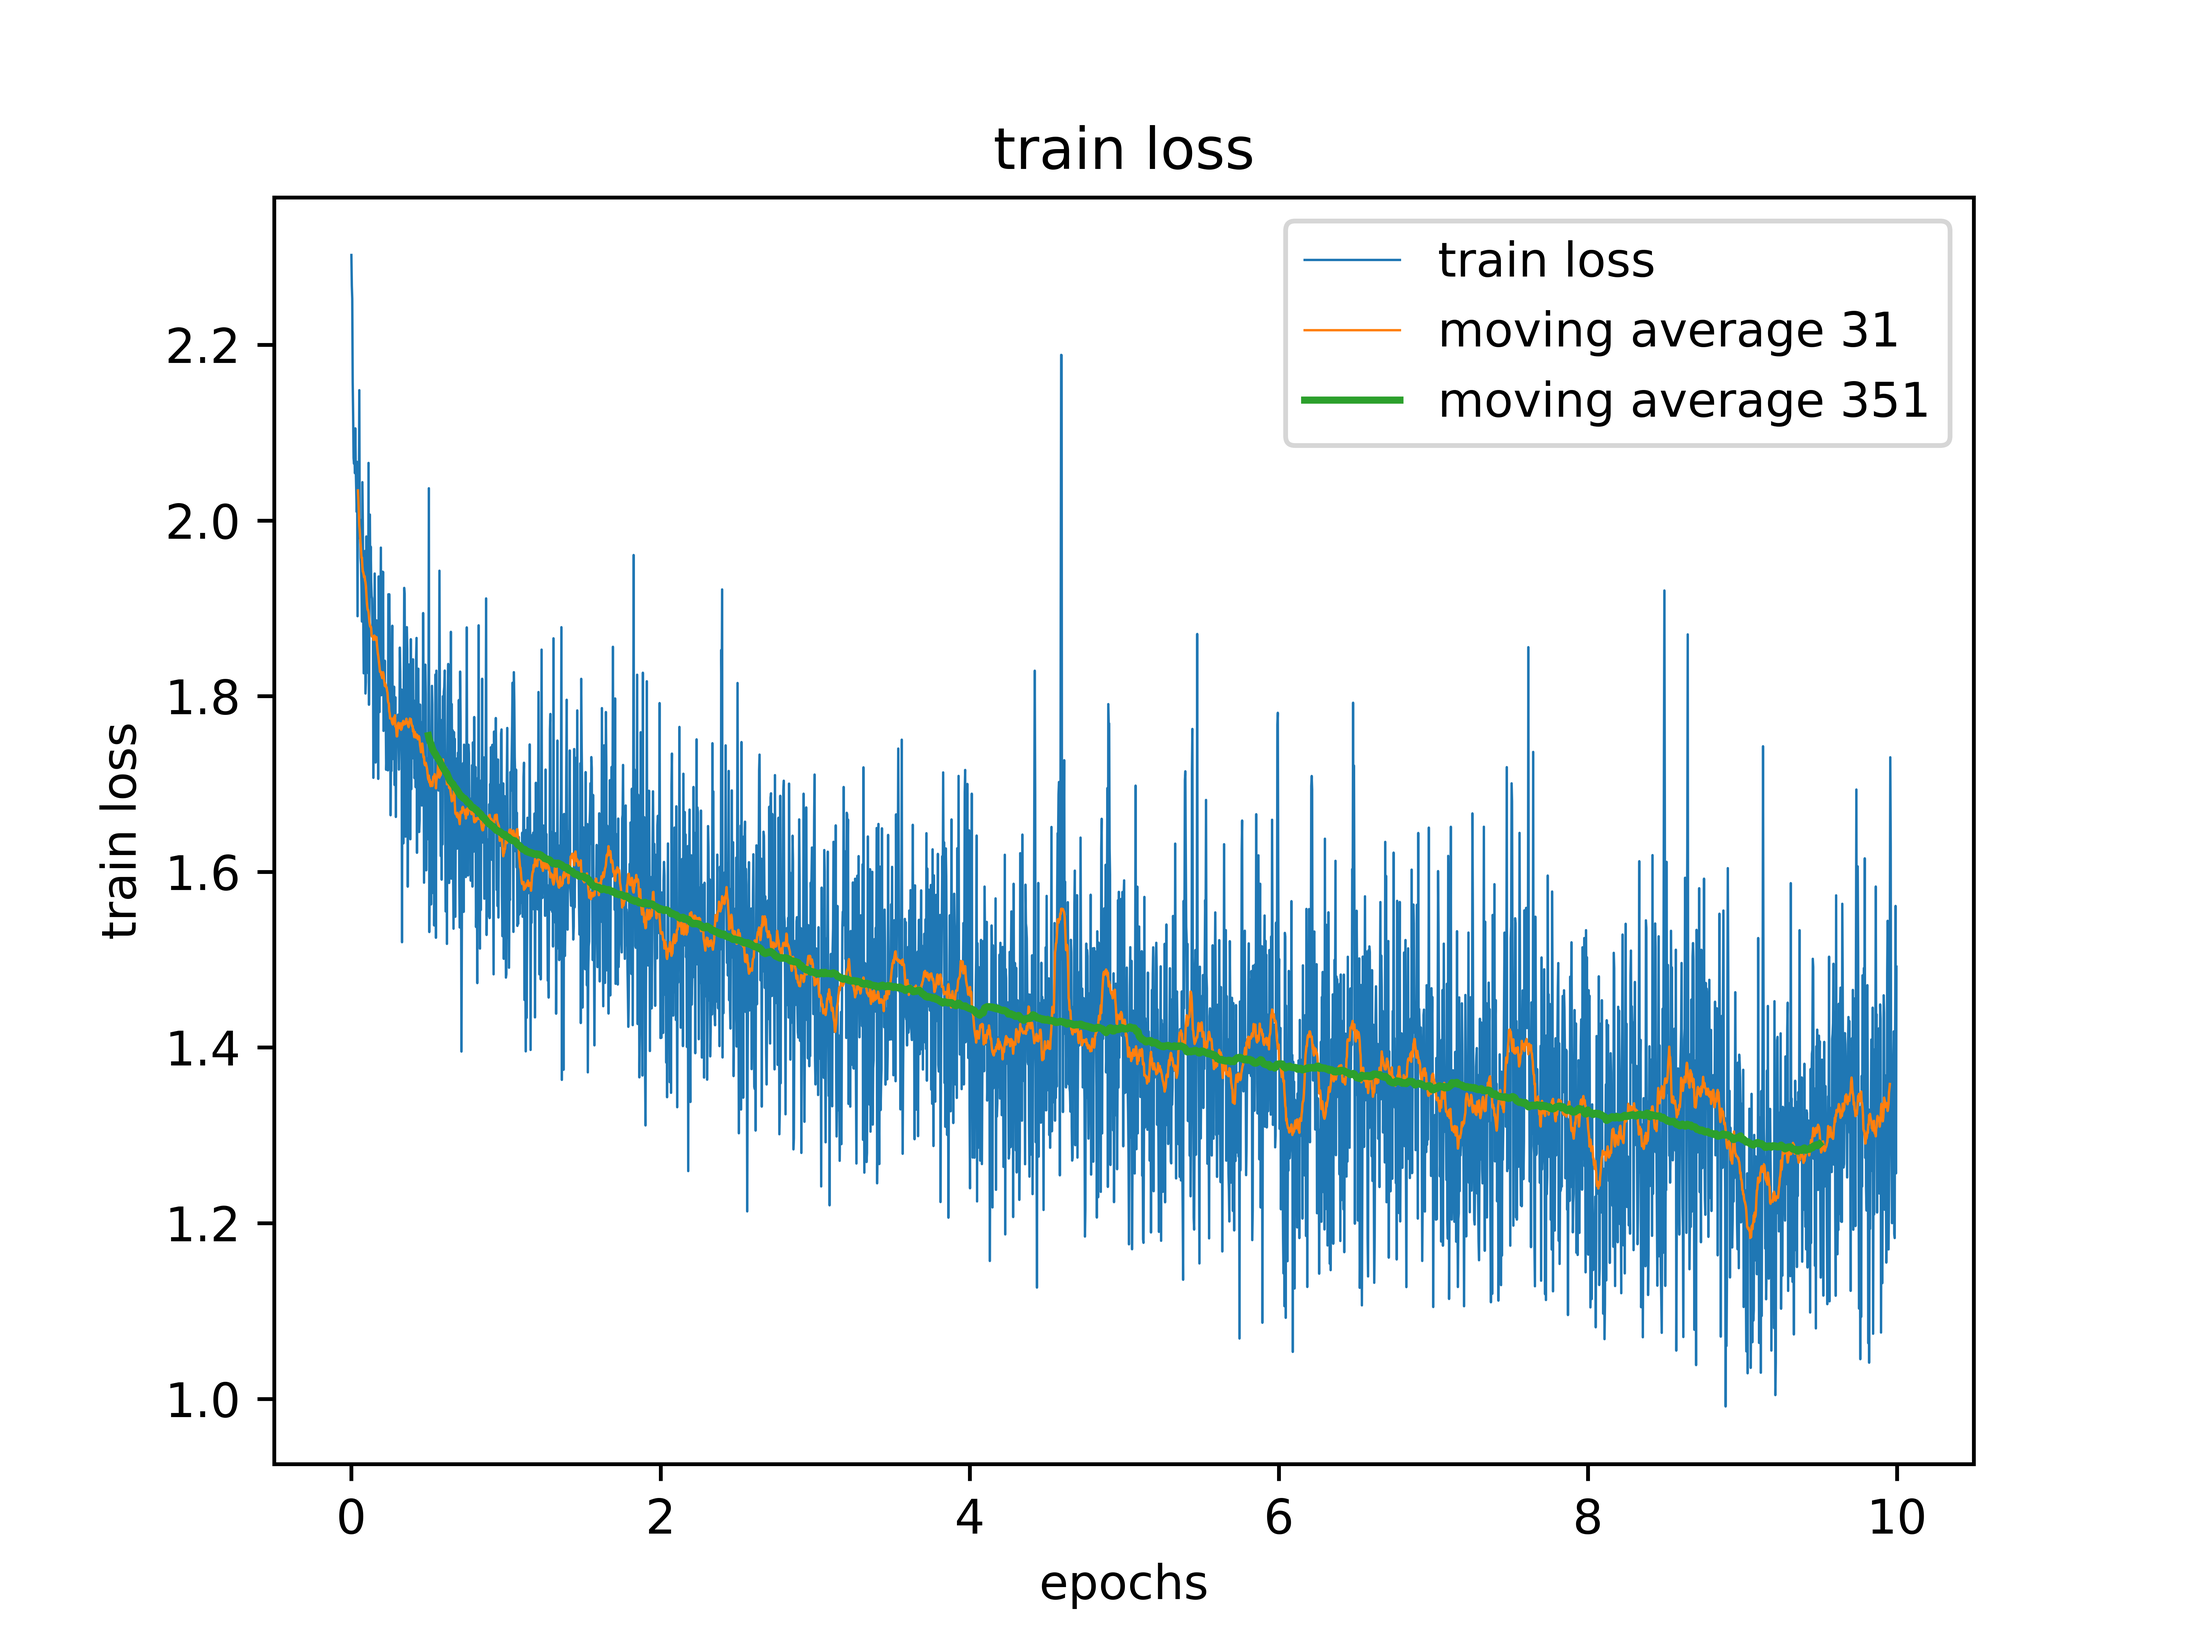
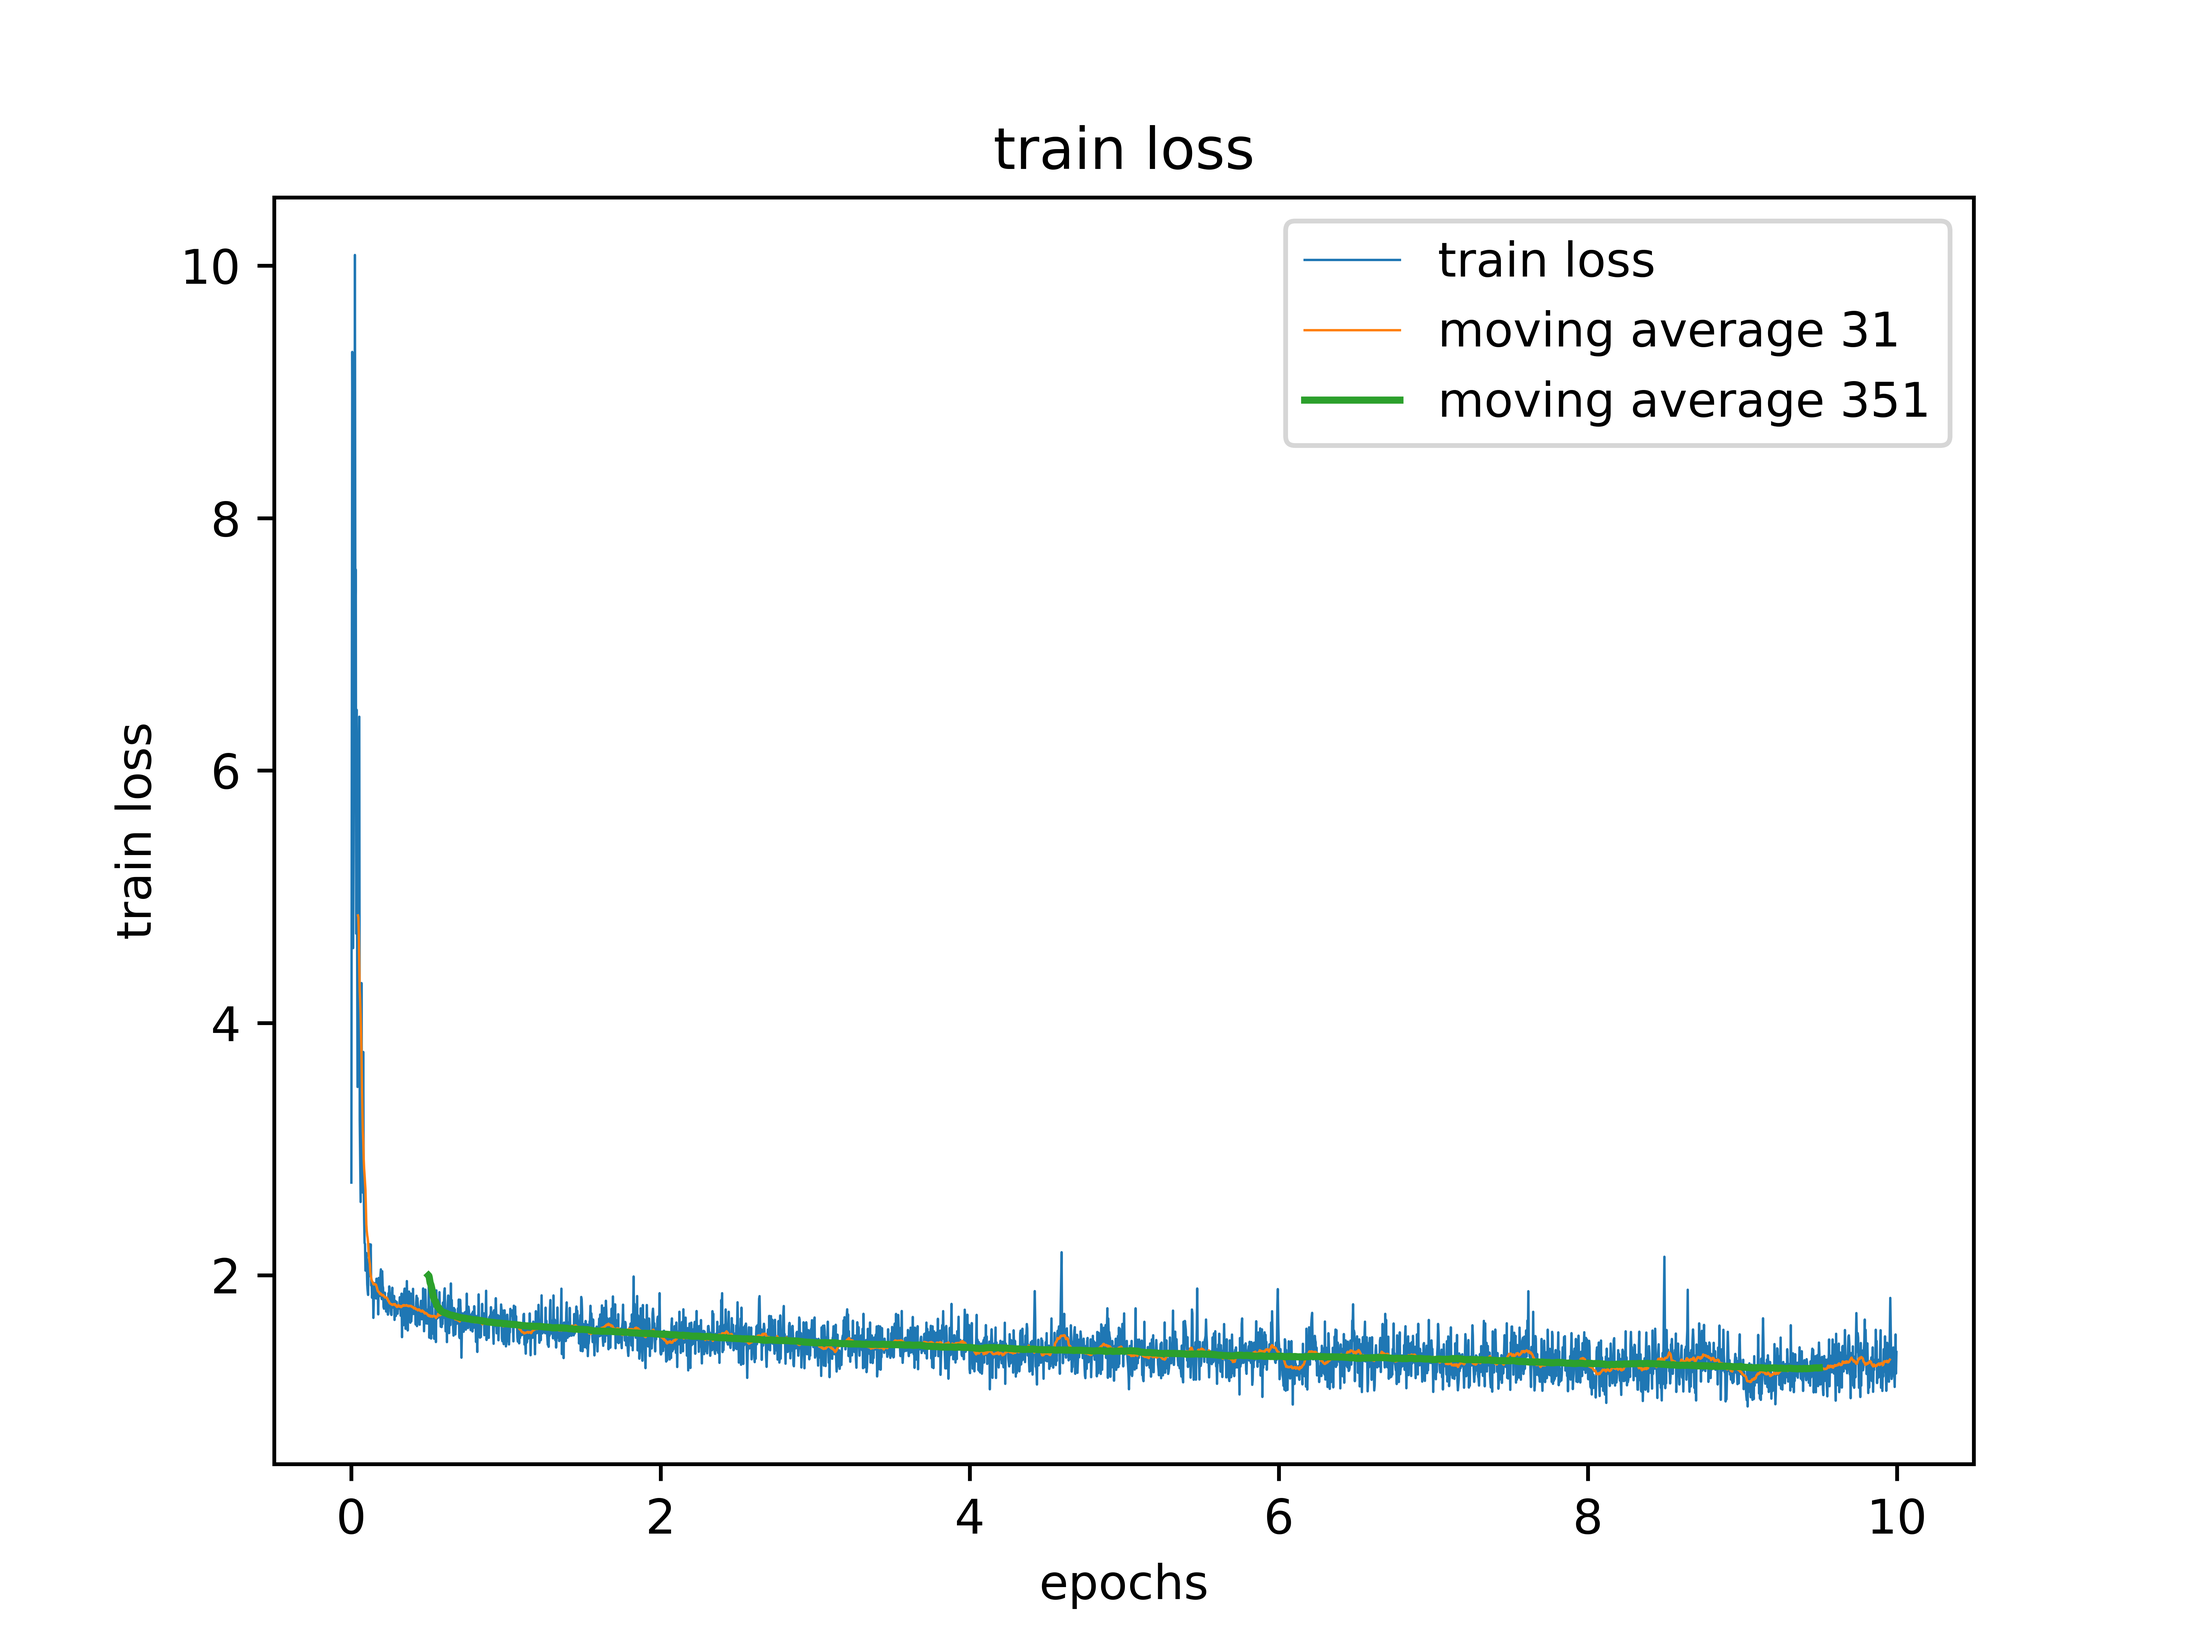
Change the initialization took the sqrt of the scale argument

diff --git a/assignment1/train_mlp_numpy.py b/assignment1/train_mlp_numpy.py
@@ -234,46 +234,46 @@ if __name__ == '__main__':
     args = parser.parse_args()
     kwargs = vars(args)
     
-    train(**kwargs)
+    # train(**kwargs)
 
     # Code below produces graphs for batch_norm = True and False separatly 
     # if you want to reproduce them - just comment the train(**kwargs) above and uncode everyhting below 
     # and run this file 
 
-    # if os.path.isfile('assignment1/train_loss.pkl'):
-    #   with open('assignment1/train_loss.pkl', 'rb') as f:
-    #       val_acc, train_loss = pickle.load(f)
-    # else: 
-    #   _, val_acc, _, logging_dict = train(**kwargs)
-    #   train_loss = np.array(logging_dict["train_loss"]).reshape(-1)
-    #   with open('assignment1/train_loss.pkl', 'wb') as f:
-    #     pickle.dump((val_acc, train_loss), f)
+    if os.path.isfile('assignment1/train_loss.pkl'):
+      with open('assignment1/train_loss.pkl', 'rb') as f:
+          val_acc, train_loss = pickle.load(f)
+    else: 
+      _, val_acc, _, logging_dict = train(**kwargs)
+      train_loss = np.array(logging_dict["train_loss"]).reshape(-1)
+      with open('assignment1/train_loss.pkl', 'wb') as f:
+        pickle.dump((val_acc, train_loss), f)
 
-    # plt.figure()
+    plt.figure()
 
-    # plt.plot(np.arange(0, train_loss.size) / 351, train_loss, linewidth=0.5, label='train loss')
+    plt.plot(np.arange(0, train_loss.size) / 351, train_loss, linewidth=0.5, label='train loss')
 
 
-    # moving_average = np.convolve(train_loss, np.ones(31) / 31, mode='valid')
+    moving_average = np.convolve(train_loss, np.ones(31) / 31, mode='valid')
 
-    # plt.plot(np.arange(15, train_loss.size - 15) / 351, moving_average, linewidth=0.5, label="moving average 31")
+    plt.plot(np.arange(15, train_loss.size - 15) / 351, moving_average, linewidth=0.5, label="moving average 31")
 
-    # moving_average = np.convolve(train_loss, np.ones(351) / 351, mode='valid')
+    moving_average = np.convolve(train_loss, np.ones(351) / 351, mode='valid')
 
-    # plt.plot(np.arange(175, train_loss.size - 175) / 351, moving_average, linewidth=1.5, label="moving average 351")
+    plt.plot(np.arange(175, train_loss.size - 175) / 351, moving_average, linewidth=1.5, label="moving average 351")
 
-    # plt.legend()
-    # plt.ylabel('train loss')
-    # plt.xlabel('epochs')
-    # plt.title('train loss')
-    # plt.savefig('assignment1/train_loss.png', dpi=1000)
+    plt.legend()
+    plt.ylabel('train loss')
+    plt.xlabel('epochs')
+    plt.title('train loss')
+    plt.savefig('assignment1/train_loss.png', dpi=1000)
 
-    # plt.figure()
+    plt.figure()
 
-    # plt.plot(val_acc, label='validation accuracy')
-    # plt.legend()
-    # plt.ylabel('accuracy')
-    # plt.xlabel('epochs')
-    # plt.title('validation accuracy')
-    # plt.savefig('assignment1/val_acc.png', dpi=1000)
-    # # Feel free to add any additional functions, such as plotting of the loss curve here
+    plt.plot(val_acc, label='validation accuracy')
+    plt.legend()
+    plt.ylabel('accuracy')
+    plt.xlabel('epochs')
+    plt.title('validation accuracy')
+    plt.savefig('assignment1/val_acc.png', dpi=1000)
+    # Feel free to add any additional functions, such as plotting of the loss curve here

diff --git a/assignment1/modules.py b/assignment1/modules.py
@@ -51,7 +51,7 @@ class LinearModule(object):
         # PUT YOUR CODE HERE  #
         #######################
         numerator = 1 if input_layer else 2
-        self.params['weight'] = np.random.normal(loc=0.0, scale=numerator/in_features, size=(in_features, out_features))
+        self.params['weight'] = np.random.normal(loc=0.0, scale=np.sqrt(numerator/in_features), size=(in_features, out_features))
         self.params['bias'] = np.zeros(shape=out_features)
 
         self.grads['weight'] = np.zeros(shape=(in_features * out_features))
